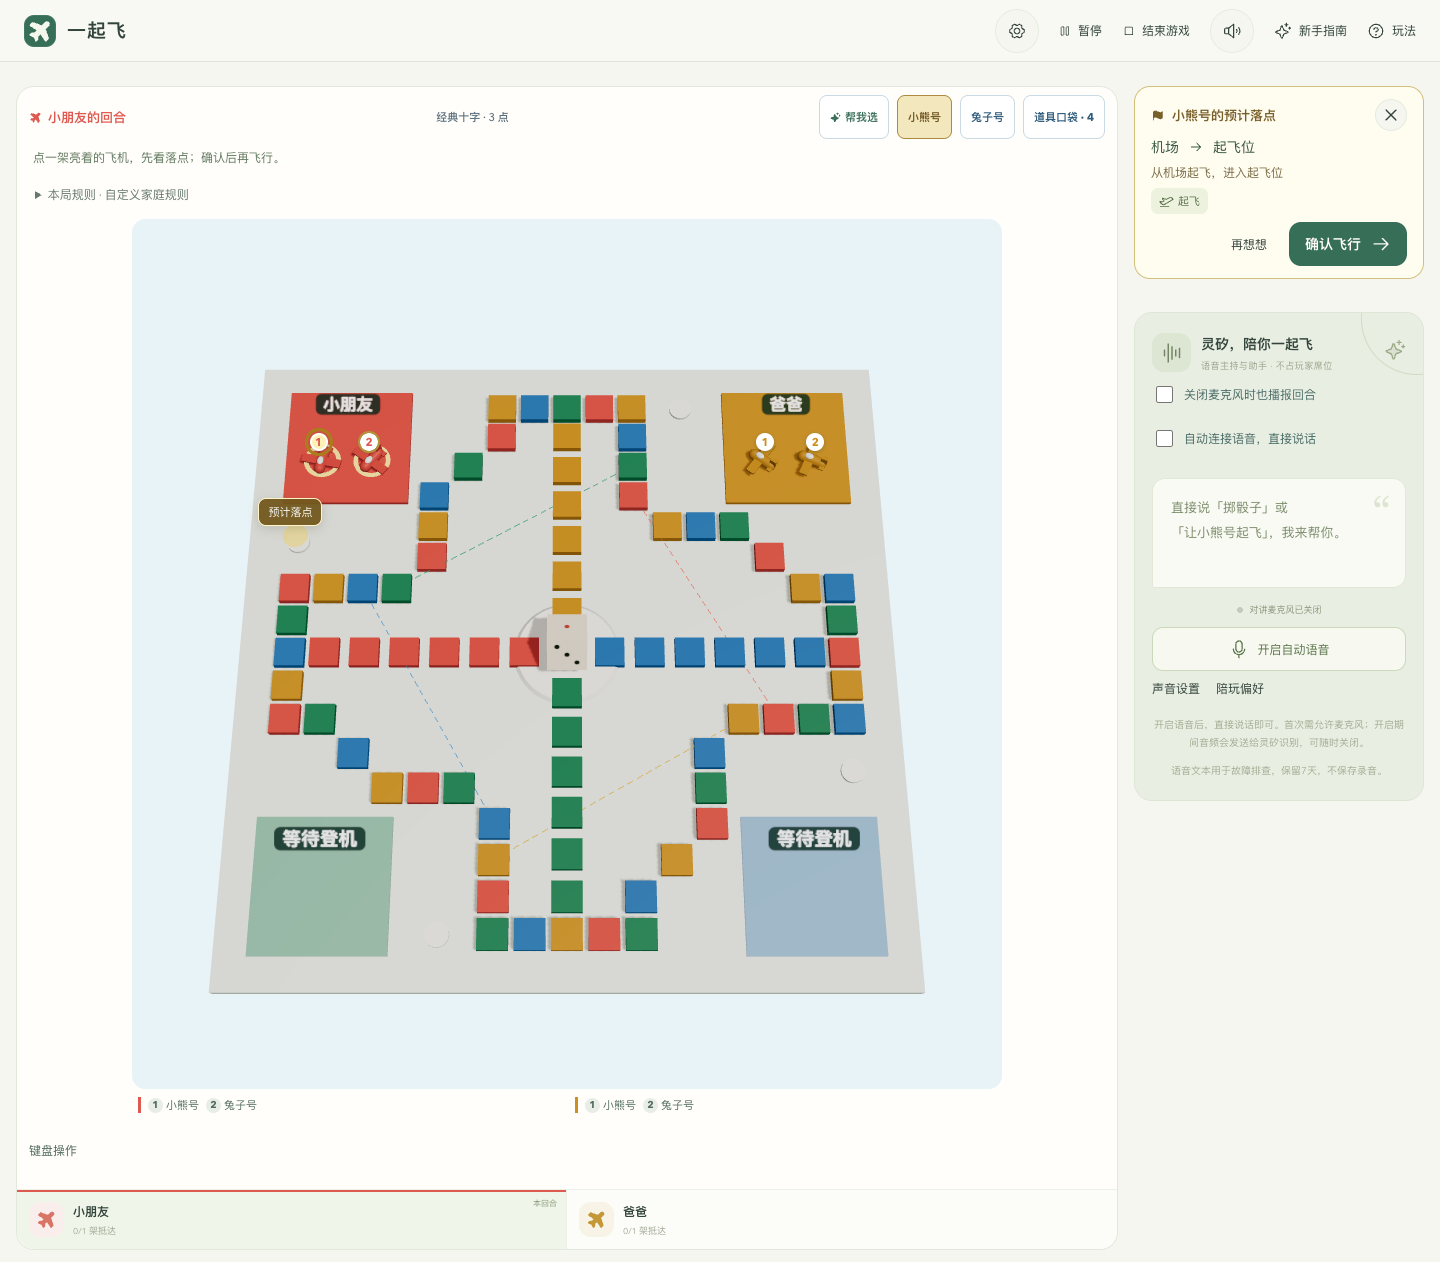
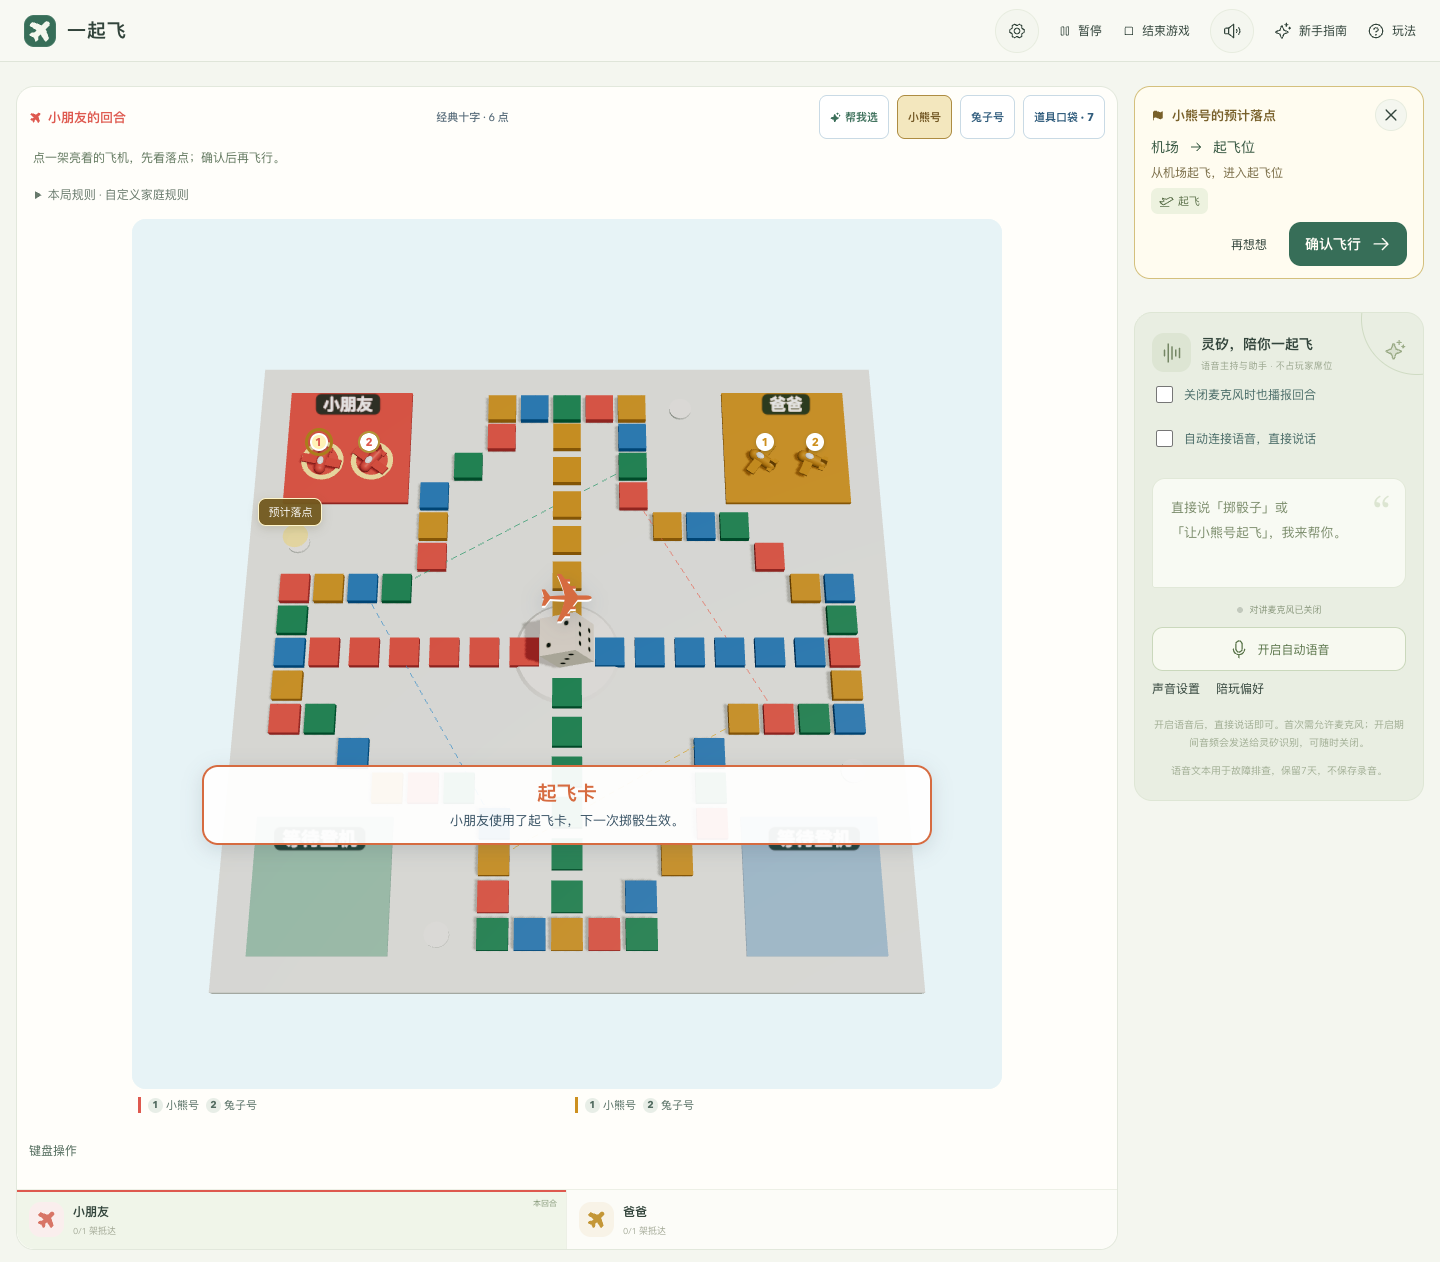
docs: refresh eight prop screenshots and deployed voice acceptance (#36)

Changed region(s): [[0.1562, 0.5872, 0.6562, 0.6799], [0.3438, 0.4635, 0.4062, 0.5254], [0.2188, 0.3399, 0.25, 0.3708]]

diff --git a/docs/QA-PROPS.md b/docs/QA-PROPS.md
@@ -1,0 +1,52 @@
+# 八种道具与反馈验收（#36）
+
+日期：2026-10-24。规则 `11a7fd8`，语音确认 `6fa5816`，特效 `1a6eb72`，卡片布局 `05de003`。仅main，未创建其他分支/PR。覆盖率专项#34暂缓，既有CI/Codecov继续运行。
+
+## 规则与兼容
+
+- 新建趣味局八种各1张：起飞、加速、幸运骰、炸弹、护盾、回旋镖、救援、团队护航。亲子只补救援/护航，禁攻击道具；经典无道具。
+- 回旋镖选择对手公共航线飞机后退3格，最低第1格；盾抵消，不触发跳跃/飞行/撞机。救援仅选自己公共航线，撤回起飞位并解除盾，不造起飞/送回统计。护航为全部自己未加盾公共航线飞机加盾，无需目标。
+- 每次掷骰前限一张；非法/跨席位/无库存不消耗。旧库存不补发，创建或再玩才获得新补给。schema5保持兼容，没有改变已有棋子结构；效果元数据可选。
+- hard机器人可用攻击/护航及有限救援，普通继续辅助卡，轻松不使用卡；没有改变真人骰子随机分布。
+
+## 实际执行与视觉
+
+新增prop_id与effects（飞机ID、前后位置、效果类型），由Go真实提交后写入历史。React展示队列去重，FX层只读，不发走棋请求；炸弹、盾/抵挡、回旋镖、救援、护航和准备类卡各有反馈，新卡有独立合成音效。平面棋盘标记目标与路径，立体棋盘展示中央效果提示；都不新建WebGL renderer，效果自动清理。减少动画保持静态结果，静音仍控制所有音效。
+
+本地与公网真实Chrome：8种道具通过UI点击，确认库存、位置、盾、真实幸运双骰、音效节点、效果销毁与刷新不重播。三种新卡另用两个独立Cookie玩家的自然随机棋局找到合法目标，同一效果ID与权威状态双端一致，非当前席位403，原命令重试不重复消费。共11案例，页面错误0。演示局只用项目正式demo初始化；联网不启用demo；未注入点数、位置或转写。390px为桌面Chrome视口，不冒充实体手机。
+
+30次实际投掷保持1个renderer且资源最终回到基线；另通过主动丢失/自动恢复/手动恢复和WebGL不可用的平面降级。主动制造的丢失单独计数，不混入“意外丢失0”。场景脚本修补了空Cookie新上下文需先创建房间的旧前置条件。
+
+## 真实语音
+
+Tingting合成WAV经实际Chrome麦克风AudioWorklet、Go网关和真实灵矽：
+
+| 原话 | Go实际结果 | 后续回复 |
+| --- | --- | --- |
+| 使用回旋镖攻击爸爸的小熊号 | 16→13，版本2，库存0 | 说出回旋镖及后退3格 |
+| 使用救援卡救援小朋友的小熊号 | 12→0，版本2，库存0 | 说出撤回起飞位 |
+| 使用团队护航 | 两架飞机加盾，版本2，库存0 | 说出团队护航与护盾 |
+
+三句均不掷骰、用卡统计1，动作确认后的实际语音转写与音频流匹配；不是只检查game_action文案，也不把连接开场音频当作回复。本地与公网各通过三种新卡；不是新增真人录音/扬声器回声测试。
+
+曾实际发现护航执行后重复旧开场提示：现在发送session.update后等待返回instructions与本轮匹配的session.updated，才response.create。旧确认不触发生成，8秒未确认则提示重连并保留游戏结果；受控WS回归确认缺失/旧确认时不生成。护航事实文案同时去除逐架重复说明。未采用本供应商未验证可用的out-of-band回复参数。
+
+公网五句真实灵矽掷骰回归：刻意延迟棋局WS，语音确认仍驱动一次4点弹窗；否定/含糊/过去时问句/待选子再掷均不增加版本，最终版本3、投掷统计1。既有幸运骰/引导/结束流程通过；Go vet/race、42项前端测试/构建通过。GitHub实际[特效CI](https://github.com/zkevindev/flytogether/actions/runs/40083165193)及[最终应用CI](https://github.com/zkevindev/flytogether/actions/runs/40083361212)两任务和Codecov上传通过；此CI不运行真实平台或浏览器脚本。
+
+## 复跑
+
+```sh
+go test -race ./...
+go vet ./...
+npm --prefix web run test:unit
+npm --prefix web run build
+QA_BASE_URL=http://127.0.0.1:8080 npm --prefix web run test:props:browser
+python3 scripts/voice_fixture.py --scenario boomerang --output-dir /tmp/prop-audio/boomerang
+python3 scripts/voice_fixture.py --scenario rescue --output-dir /tmp/prop-audio/rescue
+python3 scripts/voice_fixture.py --scenario escort --output-dir /tmp/prop-audio/escort
+QA_BASE_URL=http://127.0.0.1:8080 QA_PROP_AUDIO_DIR=/tmp/prop-audio npm --prefix web run test:props:voice
+```
+
+语音需要本机/服务端私有配置，不能把密钥放仓库或浏览器。MCP核对另见[LINGXI-MCP](LINGXI-MCP.md)，本轮没有切换生产游戏写工具为MCP。
+
+部署前在线备份，运行二进制与13份JS/CSS资源逐一核对一致，schema5、持久数据库和配置文件权限600，语音配置保留。当前10张界面由05de003公网重拍；特效四张来源1a6eb72。最终卡片布局又通过11例本地点击/联网复跑，未改规则或音频链路。

diff --git a/docs/ARCHITECTURE.md b/docs/ARCHITECTURE.md
@@ -621,3 +621,11 @@ GET `/api/family` 返回本人档案、总记录数与最近50局；POST `/api/f
 schema4在原SQLite增加`diagnostic_matches`和`diagnostic_events`。每次`database.save`在同一事务保存去私密身份字段的game.State、最新对局信息和新增游戏事件；按game_id/event_id或状态序号去重。旧存档建立记录起点，重开保持上一局，rooms删除不级联删除排障表；过期查询先排除，启动/小时清理。语音传输为独立有界写入，失败只增加计数；Go事务写入失败仍回滚棋局。
 
 Bridge只提交显式DTO，包括新生成session_id、上游input_id/response关联、最终转写/assistant消息、工具完成/拒绝、第一段PCM到达与连接生命周期。输出式TTS只记生成结果，不持久化音频；浏览器故障只允许固定枚举、原席位和当前棋局，短窗合并。没有序列化原始HTTP/WS/工具包或授权信息。自由文本限制与常见凭据屏蔽、可关闭新文本、默认7天保留。详见 [后台](ADMIN.md) 与 [验收](QA-ADMIN.md)。
+
+## 道具与Realtime补充（#36 / #37）
+
+新建趣味局8种道具，回旋镖/救援/护航由同一Go事务执行，event附prop_id及effects（piece_id/from/to/kind）。浏览器展示队列只播放新事件，不发送附加命令；平面路径/中央提示及音效共用真实事件，DOM/CSS特效不创建Three renderer。旧库存不补发，新预设规则标记family-props-v3/family-gentle-v2，已保存棋局保留自身标记。
+
+语音每轮更新配置后，等待instructions匹配的session.updated，再发response.create，避免旧播报串入；8秒未确认提示重连，权威游戏结果不回滚。响应依然绑定原语音动作授权，打断后旧确认不触发新生成。
+
+真实上游已验证原生type:mcp配置、远端工具导入/调用/结果续答，但生产游戏仍走既有function授权链路，未来MCP写工具须继续校验房间/席位/轮次与幂等。MCP完成可能晚于response.done，集成不能把生成结束当工具完成。详见[接入核对](LINGXI-MCP.md)。

diff --git a/docs/ROADMAP.md b/docs/ROADMAP.md
@@ -8,7 +8,7 @@
 
 先把“家长和孩子在同一块屏幕上玩的语音飞行棋”做完整：首次打开能理解，创建后能顺利玩完，中途退出能继续，结束后能看到结果并再来一局。点击操作始终可用，语音让陪玩更自然。
 
-当前已经有创建、独立棋盘、五种道具、AI、直接语音、主动回合播报、撒花和音效。用户已选择首先实施 [新手引导与落点预览 / #18](https://github.com/zkevindev/flytogether/issues/18)，该切片的实际完成情况以 Issue 和 README 为准。#21 补齐结算与同配置再玩，#22 增加免注册邀请联机。本轮 #24/#25 已补齐持久化、独立声音控制与语音资源限制；真实亲子与实体手机验收也已由用户确认完成；更多专项稳定性与比赛交付资料由 #3 跟踪。
+当前已经有创建、独立棋盘、八种道具、AI、直接语音、主动回合播报、撒花和音效。用户已选择首先实施 [新手引导与落点预览 / #18](https://github.com/zkevindev/flytogether/issues/18)，该切片的实际完成情况以 Issue 和 README 为准。#21 补齐结算与同配置再玩，#22 增加免注册邀请联机。本轮 #24/#25 已补齐持久化、独立声音控制与语音资源限制；真实亲子与实体手机验收也已由用户确认完成；更多专项稳定性与比赛交付资料由 #3 跟踪。
 
 ## 当前产品边界
 
@@ -124,3 +124,5 @@
 ## 运行排障与质量（#32 / #33）
 
 独立密钥只读后台、每局快照/真实事件/语音文本与工具关联、查询分页、保留期和受控浏览器故障记录；Actions自动vet/race与Go语句覆盖率、前端测试构建及Codecov报告。后台不替代#3长时间真实监听/切网专项，也不补回未记录的旧语音。具体交付与限制见 [QA-ADMIN](QA-ADMIN.md)。
+
+2026-10-24：#35房主交接已交付；#36扩充回旋镖/救援/团队护航与事件特效；#37原生Realtime MCP能力已实测，游戏写工具MCP化另做授权与异步生命周期验收。覆盖率专项#34按用户要求暂缓，现有CI/Codecov保留。
